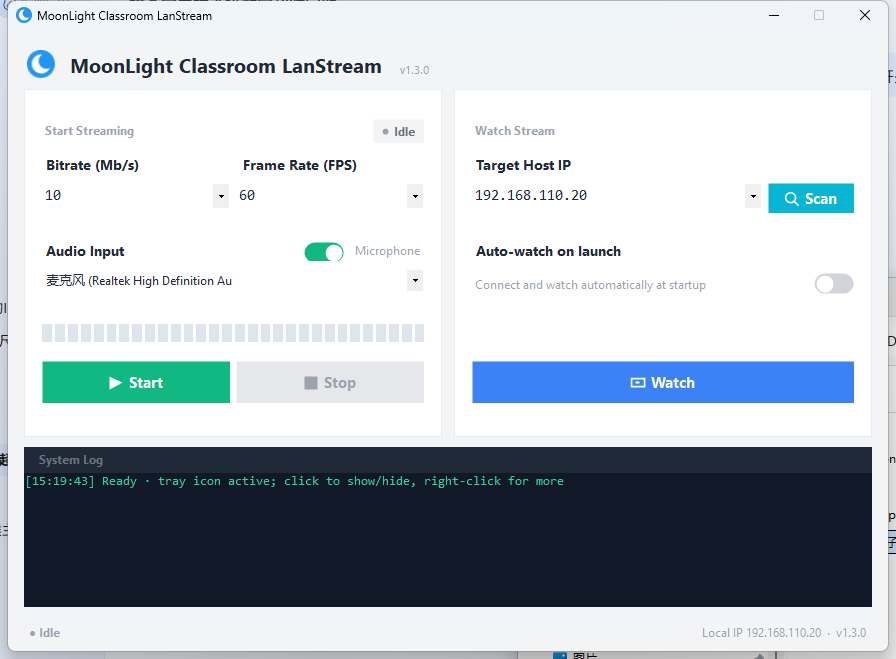
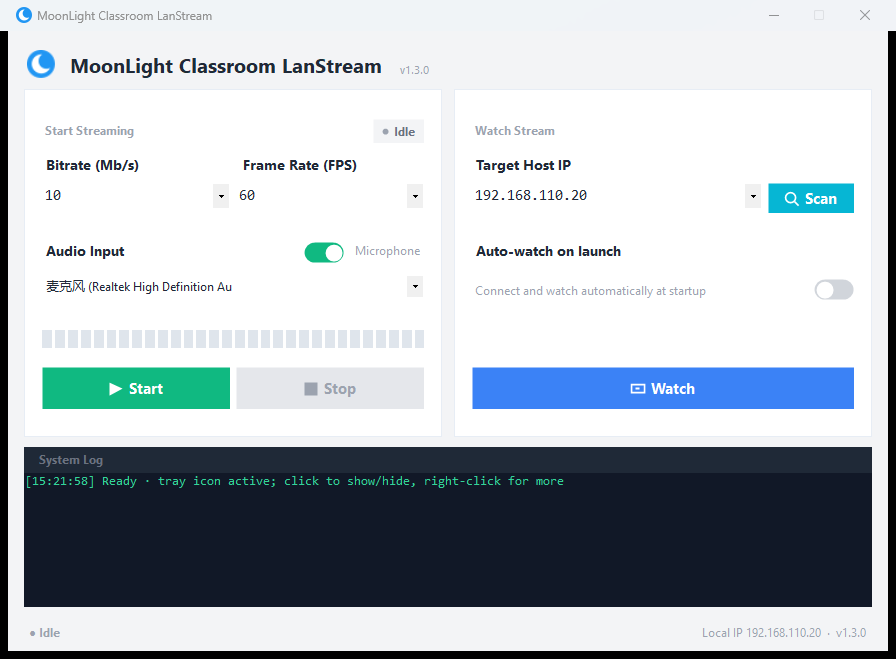
feat(cs): 单文件分发（运行时内嵌）+ 电平表诊断增强 + 开关裁切修复
- Resources\runtimes.zip(72MB) 作为嵌入资源打进 exe（75.9MB），首次运行后台解压实测 1.1s；
  build.ps1 检测到内嵌时不再复制外置 zip，dist 只剩单 exe + runtime_config + icon.ico
- 电平表排查增强：
  · 长时间(level<0.005)无输入约 10 秒在日志提示一次（区分「条坏了」和「麦克风没声音」）
  · LANSTREAM_DEBUG=1 每秒输出 [dbg] mic level/dev/playback
  · 采集启动失败只记一次日志（原来自愈定时器每 90ms 刷一条）
- 修麦克风开关底部被裁：该行行高 26 -> 32（可用高度 20 装不下 21px 的开关），
  并把各行总高压回卡片可用高度 316 内，避免底部溢出

diff --git a/windows/MainForm.cs b/windows/MainForm.cs
@@ -28,6 +28,11 @@ namespace MoonClass
         readonly MicAudio _mic = new MicAudio();
         int _lastClients = -1;
         readonly bool _meterTest = Environment.GetEnvironmentVariable("LANSTREAM_METER_TEST") == "1";
+        readonly bool _dbg = Environment.GetEnvironmentVariable("LANSTREAM_DEBUG") == "1";
+        bool _audioFailLogged;
+        bool _silentWarned;
+        int _silentTicks;
+        int _dbgLastLog;
         int _sweepI;
         bool _started;
         string _startText = "";
@@ -67,7 +72,22 @@ namespace MoonClass
                 {
                     if (_meterTest) { _meter.SetLevel(MeterSweep()); return; }   // 诊断：合成扫幅
                     if (!_mic.IsRunning) { ApplyAudio(); return; }               // 设备热插拔后自愈
-                    _meter.SetLevel(_mic.Level());
+                    float lv = _mic.Level();
+                    _meter.SetLevel(lv);
+
+                    // 长时间无输入时提示一次，帮用户区分「条坏了」和「麦克风没声音」
+                    if (lv < 0.005f) _silentTicks++; else { _silentTicks = 0; _silentWarned = false; }
+                    if (_silentTicks > 111 && !_silentWarned)     // 约 10 秒
+                    {
+                        _silentWarned = true;
+                        Log(I18n.T_("mic_silent"));
+                    }
+                    if (_dbg && Environment.TickCount - _dbgLastLog > 1000)
+                    {
+                        _dbgLastLog = Environment.TickCount;
+                        Log("[dbg] mic level=" + lv.ToString("0.000") +
+                            " dev=" + _mic.Device + " playback=" + _mic.Playback);
+                    }
                 }
                 catch { }
             };
@@ -183,7 +203,16 @@ namespace MoonClass
                 Margin = new Padding(0),
             };
             t.ColumnStyles.Add(new ColumnStyle(SizeType.Percent, 100));
-            int[] h = { 50, 20, 60, 26, 58, 40, 60 };
+            // 行高说明（left/right 完全一致，总和必须 <= 卡片可用高度 348-16*2=316，
+            // 超出时底部会被裁掉）：
+            //  0 标题行 50（上边距14+徽章24+下边距10）
+            //  1 标签行 20
+            //  2 输入行 58（上边距8+控件30+下边距14）
+            //  3 音频标签/麦克风行 32（上边距6 + 开关21 + 余量5）——小于 28 会把 21px 的开关底部裁掉
+            //  4 下拉/说明行 56（上边距8+控件30+下边距12）
+            //  5 电平条行 40（上边距2+电平条24+下边距14）
+            //  6 按钮行 60（上边距2+按钮42+下边距16）
+            int[] h = { 50, 20, 58, 32, 56, 40, 60 };
             for (int i = 0; i < h.Length; i++) t.RowStyles.Add(new RowStyle(SizeType.Absolute, h[i]));
             return t;
         }
@@ -585,8 +614,17 @@ namespace MoonClass
                 string dev = SelectedDevice();
                 if (string.IsNullOrEmpty(dev)) { _mic.Stop(); return; }
                 if (_mic.IsRunning && _mic.Device == dev && _mic.Playback == _swMic.Checked) return;
-                if (!_mic.Start(dev, _swMic.Checked) && _mic.LastError.Length > 0)
-                    Log(I18n.T_("audio_err") + _mic.LastError);
+                // 失败只记一次，恢复成功才清标志——否则 90ms 的自愈定时器会把错误刷满日志
+                bool ok = _mic.Start(dev, _swMic.Checked);
+                if (!ok)
+                {
+                    if (!_audioFailLogged)
+                    {
+                        _audioFailLogged = true;
+                        Log(I18n.T_("audio_err") + _mic.LastError);
+                    }
+                }
+                else _audioFailLogged = false;
             }
             catch (Exception ex) { Log(I18n.T_("audio_err") + ex.Message); }
         }

diff --git a/windows/I18n.cs b/windows/I18n.cs
@@ -26,6 +26,7 @@ namespace MoonClass
             { "mic_off_log",            new[] { "麦克风已关闭，仅串流系统声音", "Microphone off - only system sound is streamed" } },
             { "audio_none",             new[] { "未检测到音频输入设备（仅串流系统声音）", "No audio input device found (system sound only)" } },
             { "audio_err",              new[] { "⚠ 音频启动失败：", "⚠ Audio start failed: " } },
+            { "mic_silent",             new[] { "ℹ 麦克风持续无输入（约 10 秒）：请确认系统未将其静音、选择了正确的输入设备，或直接对着麦克风说话验证电平条", "ℹ No mic input for ~10 s: check the system input device / mute state, or speak into the mic to see the meter move" } },
             // 收看
             { "watch",                  new[] { "一键收看", "Watch" } },
             { "watch_hint",             new[] { "一键收看", "Watch Stream" } },

diff --git a/windows/README.md b/windows/README.md
@@ -41,14 +41,15 @@ powershell -ExecutionPolicy Bypass -File .\build.ps1 -Version 1.3.0
 产物目录：`dist\cs-v1.3.0\`
 
 ```
-月光极速电子教室-v1.3.0.exe    ← 主程序（几百 KB）
-runtimes.zip                  ← Sunshine + Moonlight 运行时（72 MB，由 python make_runtimes.py 生成）
+月光极速电子教室-v1.3.0.exe    ← 主程序（~72 MB，运行时已内嵌，单文件分发）
 runtime_config\                ← apps.json + Sunshine Web 凭据模板
 icon.ico                       ← 窗口/托盘图标
 ```
 
-`runtimes.zip` 由仓库根目录的 `python make_runtimes.py` 生成；也可删掉它改由程序内嵌
-（把 zip 放到 `windows\Resources\` 下，csproj 会自动作为嵌入资源，但 exe 会变成 ~75 MB）。
+**单文件分发**：只要 `windows\Resources\runtimes.zip` 存在，构建脚本就会把它作为嵌入资源
+打进 exe（不再复制外置 zip）。首次运行时在后台线程把运行时解压到
+`%LOCALAPPDATA%\LanStream\`（实测 1.1 s，不阻塞窗口出现）。删除 `Resources\runtimes.zip`
+则回退为“exe + 外置 runtimes.zip”的分发方式。
 
 ---
 
@@ -75,6 +76,11 @@ icon.ico                       ← 窗口/托盘图标
 
 想看电平条本身有没有坏，可用合成信号驱动（不依赖麦克风）：设置环境变量
 `LANSTREAM_METER_TEST=1` 后启动程序即可。
+
+想看真实电平数值（排查麦克风没声音时），设 `LANSTREAM_DEBUG=1` 启动，日志区每秒输出
+一行 `[dbg] mic level=… dev=… playback=…`。若一直是 `0.000`，说明采集链路正常但设备
+没给数据——检查系统「声音 → 输入」里该设备是否被静音、音量是否为 0。程序也会在持续
+约 10 秒无输入时于日志提示一次。
 
 ## 与 Python 版的功能对齐
 
